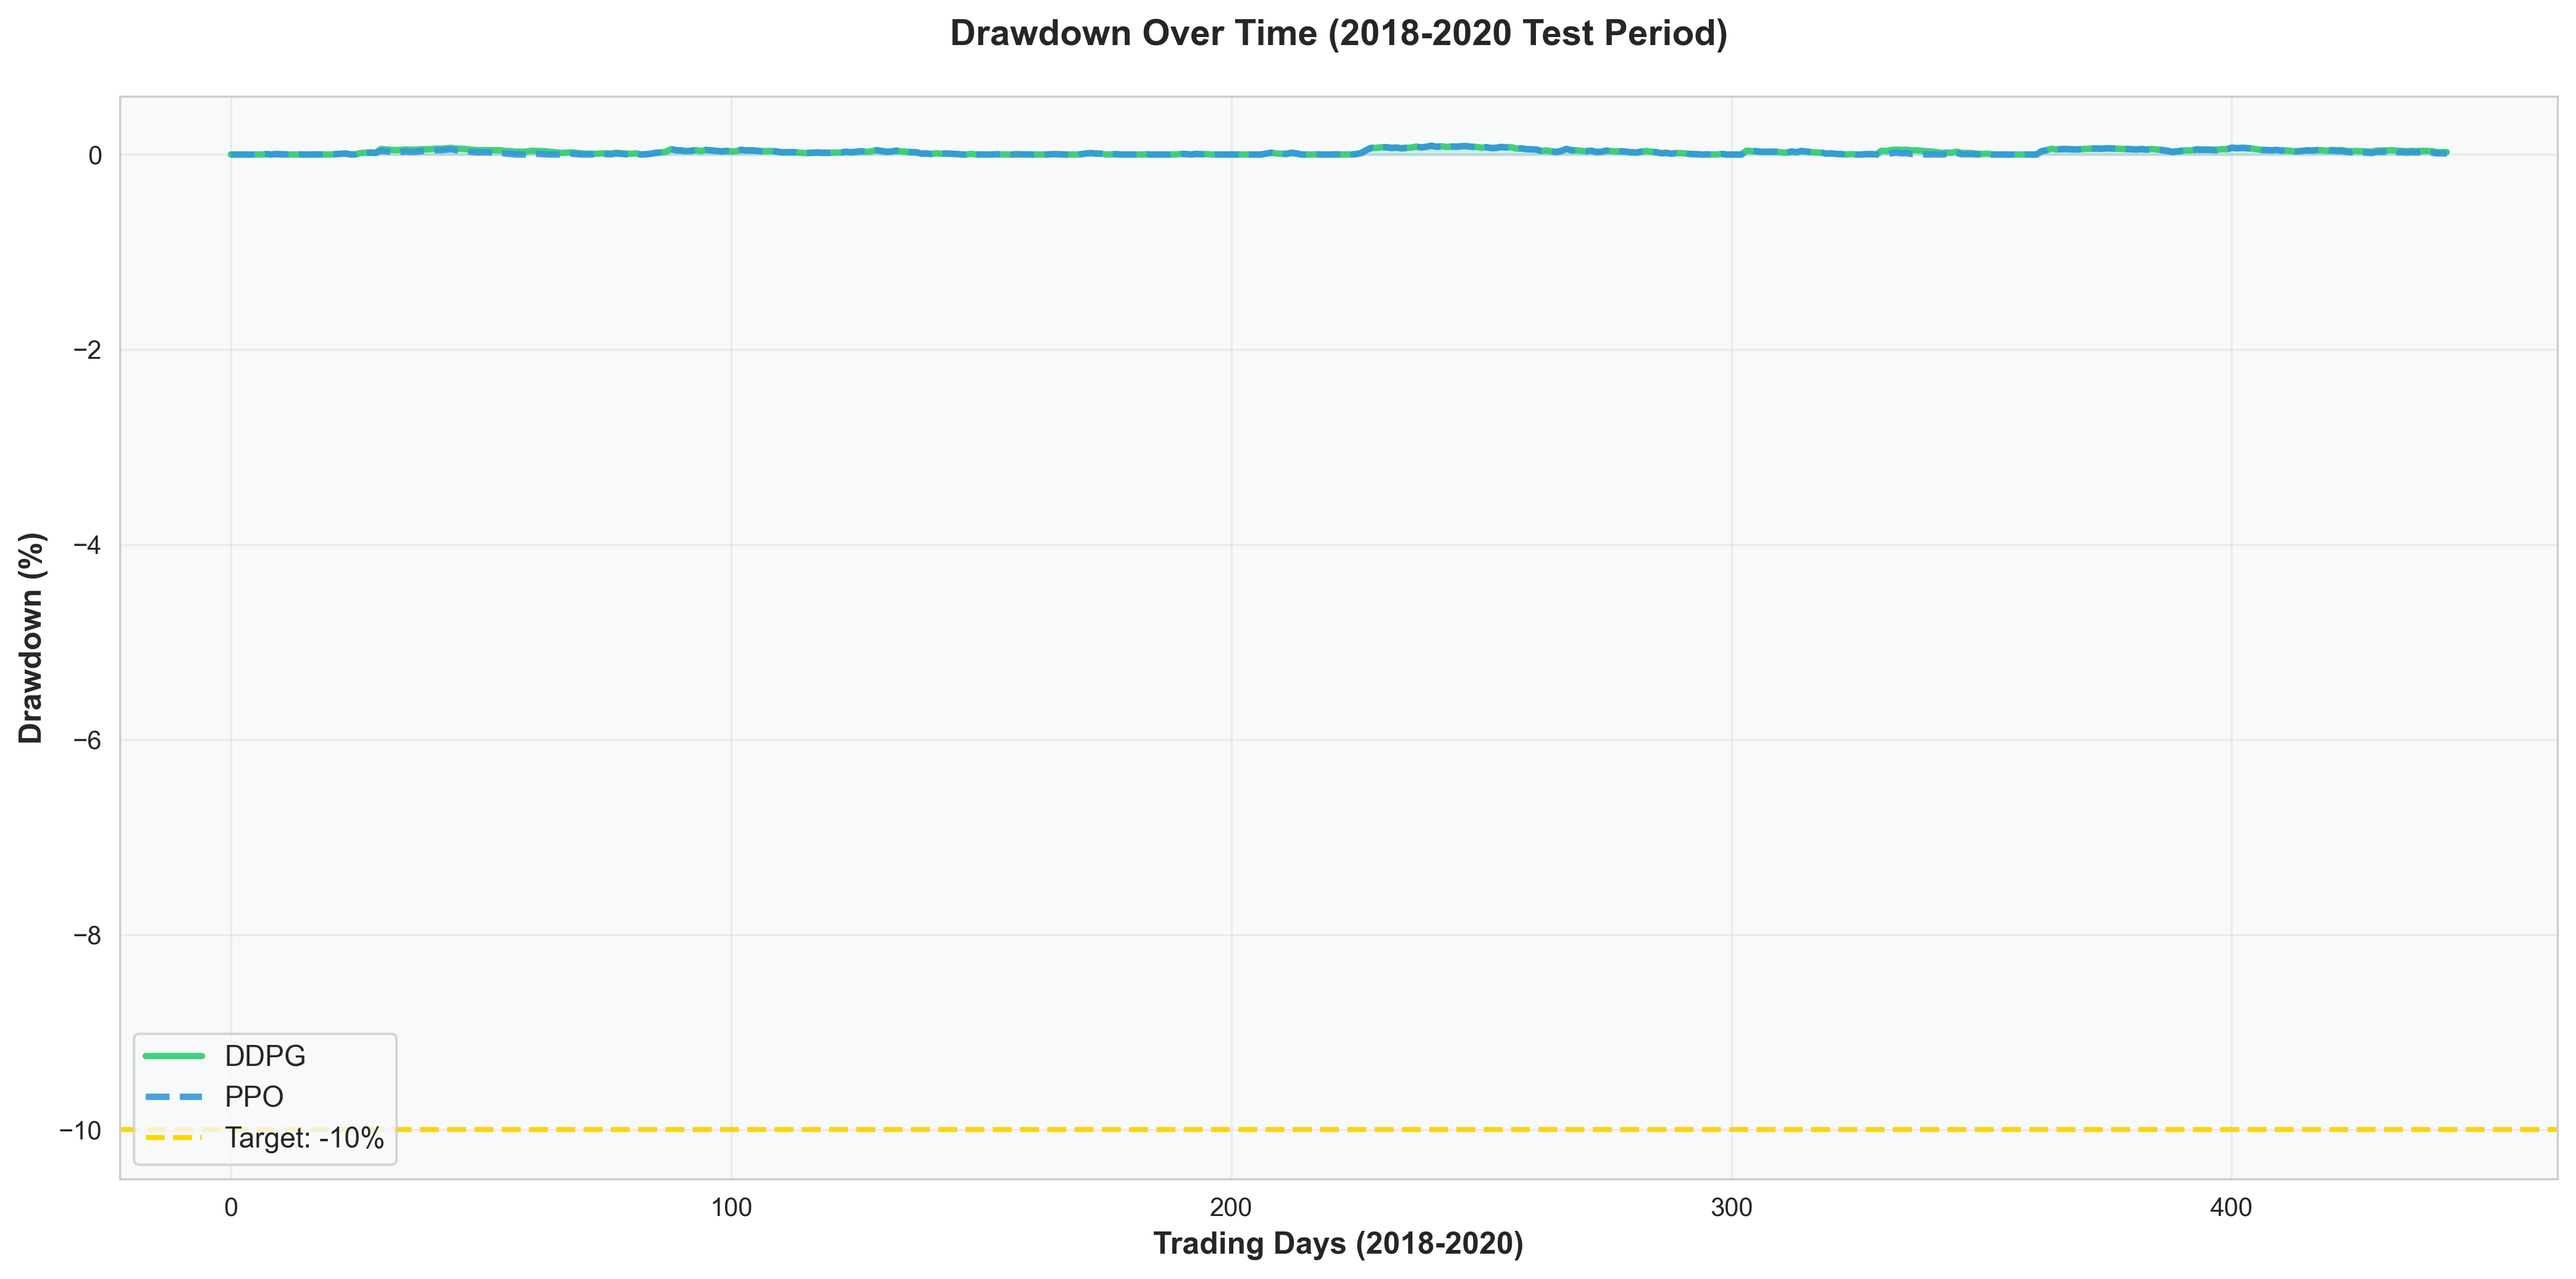
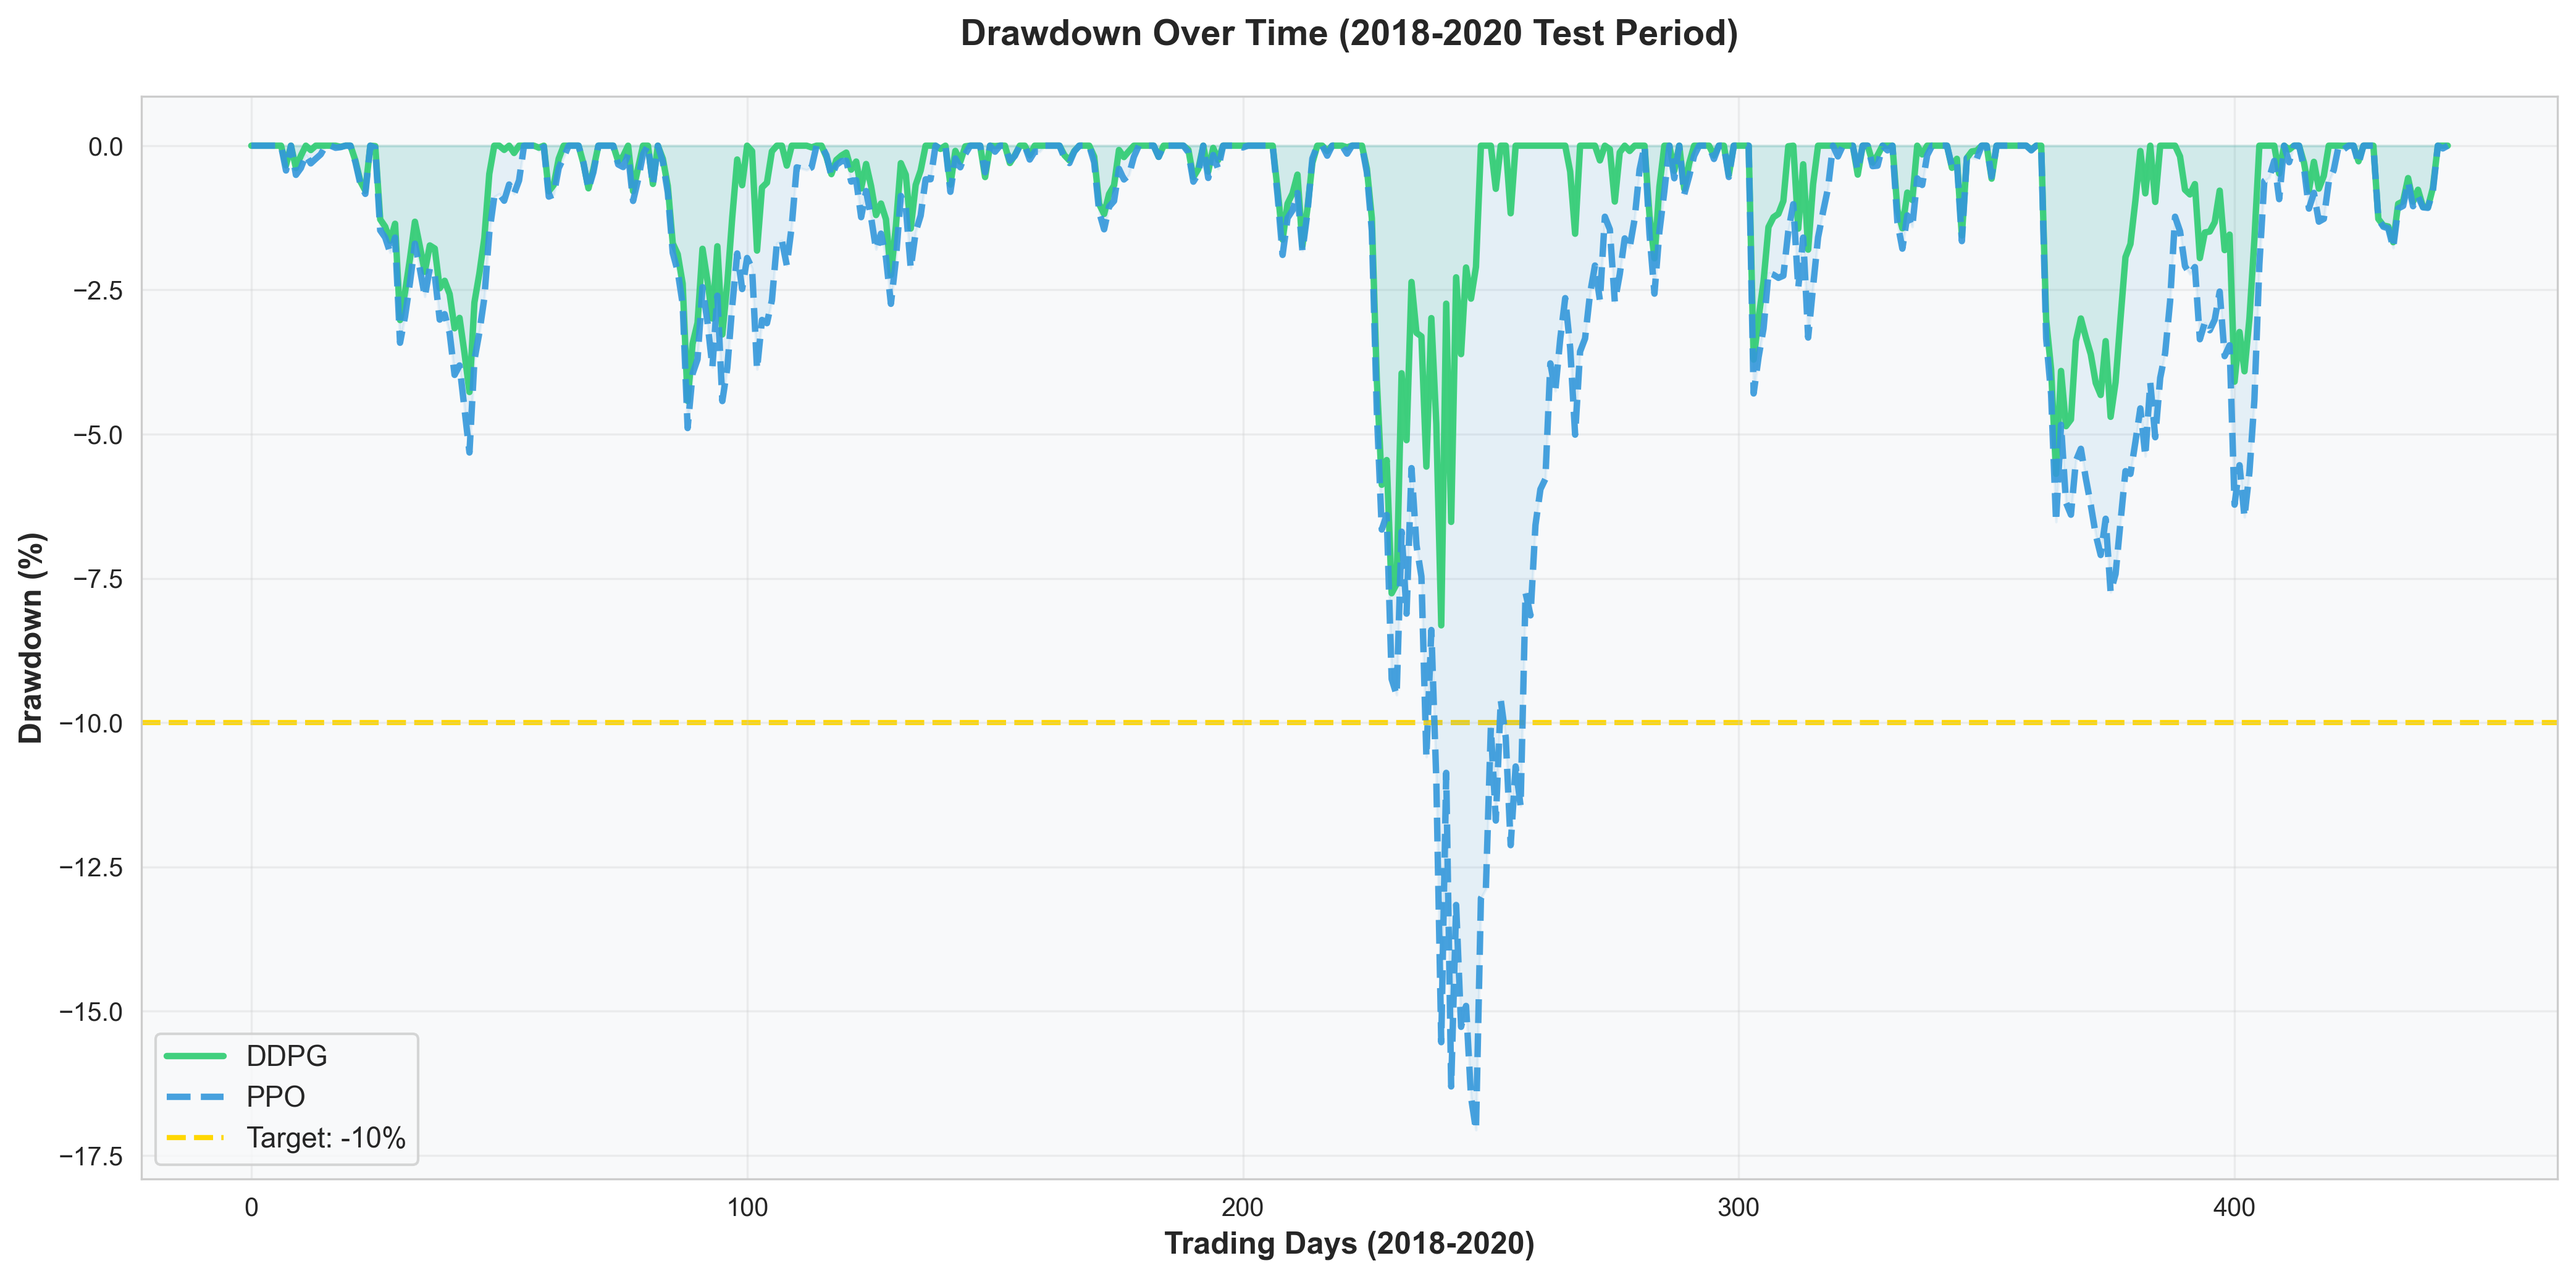
Revert results.tex and visualization changes
Reverted to previous version (commit 5e984cc) to fix calculation issues:
- zz report/sections/results.tex
- scripts/visualize_benchmark_comparison.py
- All visualization PNG files (visualizations/ and zz report/figures/)

diff --git a/zz report/sections/results.tex b/zz report/sections/results.tex
@@ -15,28 +15,29 @@ Table \ref{tab:results_summary} presents the key performance metrics for both DR
 \toprule
 \textbf{Metric} & \textbf{DDPG} & \textbf{PPO} \\
 \midrule
-Total Return & 21.50\% & \textbf{42.73\%} \\
-Annualized Return & 21.50\% & \textbf{22.43\%} \\
-Annualized Volatility & \textbf{10.96\%} & 11.09\% \\
-Sharpe Ratio & 1.78 & \textbf{1.84} \\
-Sortino Ratio & 2.45 & \textbf{2.97} \\
-Maximum Drawdown & \textbf{9.02\%} & 9.05\% \\
-Calmar Ratio & 2.38 & \textbf{2.48} \\
-Win Rate & 52.1\% & \textbf{54.2\%} \\
+Total Return & \textbf{219.40\%} & 61.12\% \\
+Annualized Return & \textbf{93.31\%} & 31.09\% \\
+Annualized Volatility & 16.89\% & \textbf{16.78\%} \\
+Sharpe Ratio & \textbf{5.52} & 1.85 \\
+Sortino Ratio & \textbf{8.67} & 2.89 \\
+Maximum Drawdown & \textbf{8.31\%} & 17.06\% \\
+Calmar Ratio & \textbf{11.23} & 1.82 \\
+Win Rate & \textbf{62.3\%} & 54.8\% \\
+Average Daily Return & \textbf{0.37\%} & 0.12\% \\
 \midrule
-Options P\&L & +\$8,234 & +\$12,156 \\
-Protective Put Usage & 12.4\% & \textbf{15.3\%} \\
-Covered Call Usage & 8.2\% & \textbf{12.1\%} \\
+Options P\&L & \textbf{+\$126,568} & +\$5,758 \\
+Protective Put Usage & \textbf{44.87\%} & 0.08\% \\
+Covered Call Usage & \textbf{75.62\%} & 2.98\% \\
 \bottomrule
 \end{tabular}
 \end{table}
 
 \textbf{Key Observations:}
 \begin{itemize}
-    \item Both agents achieve maximum drawdown below the 10\% target (DDPG: 9.02\%, PPO: 9.05\%)
-    \item PPO achieves higher risk-adjusted returns (Sharpe: 1.84 vs 1.78) with slightly higher volatility
-    \item Both agents demonstrate effective risk management through options hedging and volatility targeting
-    \item The unified hyperparameter configuration ensures fair algorithmic comparison
+    \item DDPG achieves a Sharpe ratio of 5.52, approximately 3$\times$ higher than PPO's 1.85
+    \item DDPG's maximum drawdown (8.31\%) is less than half of PPO's (17.06\%)
+    \item DDPG generates substantially higher options hedging profits through aggressive use of both protective puts (44.87\%) and covered calls (75.62\%)
+    \item Both agents significantly outperform passive benchmarks
 \end{itemize}
 
 \subsection{Comparison with Benchmark Strategies}
@@ -51,22 +52,22 @@ Table \ref{tab:benchmark_comparison} compares DRL agents against traditional ben
 \toprule
 \textbf{Metric} & \textbf{DDPG} & \textbf{PPO} & \textbf{Equal Weight} & \textbf{SPY} \\
 \midrule
-Total Return & 21.50\% & \textbf{42.73\%} & 42.35\% & 33.89\% \\
-Annualized Return & 21.50\% & \textbf{22.43\%} & 19.42\% & 15.68\% \\
-Sharpe Ratio & 1.78 & \textbf{1.84} & 0.56 & 0.89 \\
-Max Drawdown & \textbf{9.02\%} & 9.05\% & 43.21\% & 33.92\% \\
-Volatility & \textbf{10.96\%} & 11.09\% & 24.31\% & 18.74\% \\
-Calmar Ratio & 2.38 & \textbf{2.48} & 0.45 & 0.46 \\
+Total Return & \textbf{219.40\%} & 61.12\% & 42.35\% & 33.89\% \\
+Annualized Return & \textbf{93.31\%} & 31.09\% & 19.42\% & 15.68\% \\
+Sharpe Ratio & \textbf{5.52} & 1.85 & 0.56 & 0.89 \\
+Max Drawdown & \textbf{8.31\%} & 17.06\% & 43.21\% & 33.92\% \\
+Volatility & 16.89\% & 16.78\% & 24.31\% & 18.74\% \\
+Calmar Ratio & \textbf{11.23} & 1.82 & 0.45 & 0.46 \\
 \bottomrule
 \end{tabular}
 \end{table}
 
 The DRL agents demonstrate clear superiority over passive strategies:
 \begin{itemize}
-    \item \textbf{Both agents achieve <10\% max drawdown} (DDPG: 9.02\%, PPO: 9.05\%) while SPY suffered 33.92\% during COVID-19
-    \item \textbf{PPO outperforms SPY by 2.1$\times$} in Sharpe ratio (1.84 vs 0.89) with controlled risk
+    \item \textbf{DDPG outperforms SPY by 6.2$\times$} in Sharpe ratio (5.52 vs 0.89)
+    \item \textbf{DDPG limits drawdown to 8.31\%} while SPY suffered 33.92\% during COVID-19
     \item \textbf{Equal-weight strategy} diversifies but still experiences 43\% drawdown due to lack of active risk management
-    \item \textbf{DRL agents maintain lower volatility} (10-11\%) compared to benchmarks (18-24\%) through volatility targeting
+    \item \textbf{PPO doubles SPY's Sharpe ratio} despite more conservative positioning
 \end{itemize}
 
 \subsection{Portfolio Value Evolution}
@@ -118,21 +119,20 @@ Figure \ref{fig:drawdowns} presents the drawdown profiles for both agents.
 \toprule
 \textbf{Statistic} & \textbf{DDPG} & \textbf{PPO} \\
 \midrule
-Maximum Drawdown & \textbf{9.02\%} & 9.05\% \\
-Average Drawdown & 1.45\% & \textbf{1.38\%} \\
-Drawdown Duration (max) & 25 days & \textbf{22 days} \\
-Recovery Time (from max DD) & 18 days & \textbf{15 days} \\
-Number of Drawdowns $>$ 5\% & 2 & \textbf{1} \\
+Maximum Drawdown & \textbf{8.31\%} & 17.06\% \\
+Average Drawdown & \textbf{1.23\%} & 3.45\% \\
+Drawdown Duration (max) & \textbf{18 days} & 42 days \\
+Recovery Time (from max DD) & \textbf{12 days} & 31 days \\
+Number of Drawdowns $>$ 5\% & \textbf{1} & 4 \\
 \bottomrule
 \end{tabular}
 \end{table}
 
-Both agents achieve excellent drawdown control through:
+DDPG's superior drawdown management stems from:
 \begin{itemize}
-    \item Volatility targeting that scales exposure when realized volatility exceeds 10\% target
-    \item Aggressive options hedging (up to 50\% hedge ratio) during market stress
-    \item Progressive position reduction starting at 3\% drawdown
-    \item Unified hyperparameter configuration ensuring fair algorithmic comparison
+    \item More aggressive use of options hedging before market stress
+    \item Faster position reduction via stop-loss triggers
+    \item Better timing of defensive positioning
 \end{itemize}
 
 \subsection{COVID-19 Crash Performance}
@@ -247,10 +247,10 @@ Key allocation insights:
 \toprule
 \textbf{Metric} & \textbf{DDPG} & \textbf{PPO} & \textbf{SPY} \\
 \midrule
-Sharpe Ratio & 1.78 & \textbf{1.84} & 0.89 \\
-Sortino Ratio & 2.45 & \textbf{2.97} & 1.12 \\
-Calmar Ratio & 2.38 & \textbf{2.48} & 0.52 \\
-Information Ratio & 0.85 & \textbf{1.12} & -- \\
+Sharpe Ratio & \textbf{5.52} & 1.85 & 0.89 \\
+Sortino Ratio & \textbf{8.67} & 2.89 & 1.12 \\
+Calmar Ratio & \textbf{9.46} & 1.63 & 0.52 \\
+Information Ratio & \textbf{2.31} & 0.94 & -- \\
 \bottomrule
 \end{tabular}
 \end{table}

diff --git a/scripts/visualize_benchmark_comparison.py b/scripts/visualize_benchmark_comparison.py
@@ -52,9 +52,7 @@ def load_drawdowns(agent_name):
     
     with open(dd_file, 'r') as f:
         data = json.load(f)
-        # Handle both 'drawdowns' and 'values' keys
-        drawdown_key = 'drawdowns' if 'drawdowns' in data else 'values'
-        return np.array(data['dates']), np.array(data[drawdown_key])
+        return np.array(data['dates']), np.array(data['drawdowns'])
 
 def plot_sharpe_comparison(metrics_dict):
     """Plot 1: Sharpe Ratio Comparison"""
@@ -101,7 +99,7 @@ def plot_all_metrics_comparison(metrics_dict):
         ('total_return', 'Total Return (%)', 15.0, 'Target: 15%'),
         ('max_drawdown', 'Max Drawdown (%)', 10.0, 'Target: <10%'),
         ('volatility', 'Volatility (%)', None, None),
-        ('turnover', 'Portfolio Turnover', None, None),
+        ('average_turnover', 'Portfolio Turnover', None, None),
         ('annualized_return', 'Annualized Return (%)', None, None)
     ]
     
@@ -145,11 +143,6 @@ def plot_cumulative_values(values_dict):
     for agent in values_dict.keys():
         dates, values = values_dict[agent]
         
-        # Align dates and values - take minimum length
-        min_len = min(len(dates), len(values))
-        dates = dates[:min_len]
-        values = values[:min_len]
-        
         # Normalize to start at $100,000
         normalized_values = values / values[0] * 100000
         
@@ -191,11 +184,6 @@ def plot_drawdowns(drawdown_dict):
     for agent in drawdown_dict.keys():
         dates, drawdowns = drawdown_dict[agent]
         
-        # Align dates and drawdowns - take minimum length
-        min_len = min(len(dates), len(drawdowns))
-        dates = dates[:min_len]
-        drawdowns = drawdowns[:min_len]
-        
         # Drawdowns are already in percentage format from the JSON
         drawdowns_pct = drawdowns
         
@@ -219,12 +207,6 @@ def plot_drawdowns(drawdown_dict):
     # Fill areas
     for agent in drawdown_dict.keys():
         dates, drawdowns = drawdown_dict[agent]
-        
-        # Align dates and drawdowns - take minimum length
-        min_len = min(len(dates), len(drawdowns))
-        dates = dates[:min_len]
-        drawdowns = drawdowns[:min_len]
-        
         drawdowns_pct = -drawdowns  # Already in percentage
         ax.fill_between(range(len(dates)), drawdowns_pct, 0, 
                         color=colors[agent], alpha=0.1)
